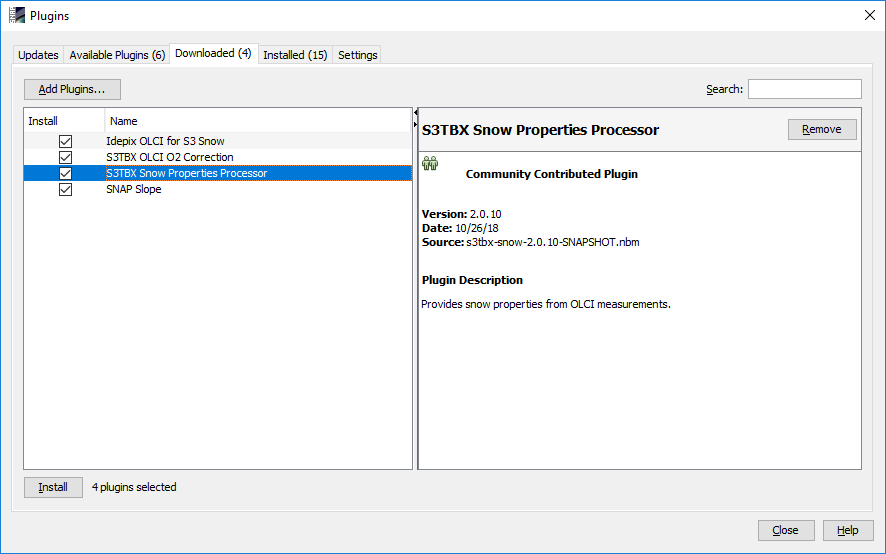
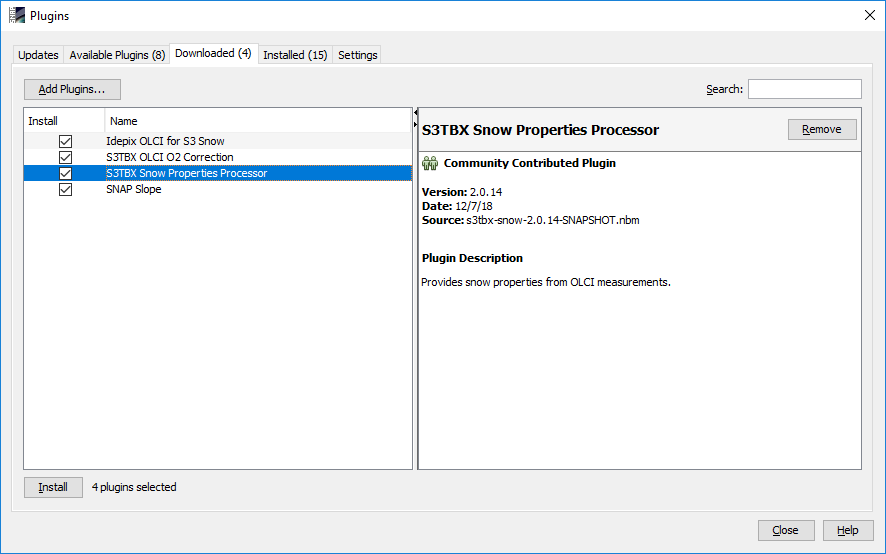
SUM: minor adaptations to latest processors, set version to 1.3

Changed region(s): [[0.4571, 0.2762, 0.7619, 0.583]]

diff --git a/src/main/javahelp/org/esa/s3tbx/s3tbx/snow/docs/s3snow/S3SnowProcessorDescription.html b/src/main/javahelp/org/esa/s3tbx/s3tbx/snow/docs/s3snow/S3SnowProcessorDescription.html
@@ -204,8 +204,8 @@
 </p>
 
 <p class="i1">
-    <b>OLCI SVC gain for band 5 (510nm): </b><br>
-    OLCI system vicarious calibration (SVC) gain for band 5 (510nm). See [3] for details and explanations.
+    <b>OLCI SVC gain for band 6 (560nm): </b><br>
+    OLCI system vicarious calibration (SVC) gain for band 6 (560nm). See [3] for details and explanations.
     Default value is 0.9892, as proposed in [3], Table 2.
 </p>
 

diff --git a/src/main/resources/doc/conf.py b/src/main/resources/doc/conf.py
@@ -65,9 +65,9 @@ s3snow_logo = "pix/s3snow_logo.png"
 # built documents.
 #
 # The short X.Y version.
-version = '1.2'
+version = '1.3'
 # The full version, including alpha/beta/rc tags.
-release = '1.2'
+release = '1.3'
 
 # The language for content autogenerated by Sphinx. Refer to documentation
 # for a list of supported languages.

diff --git a/src/main/resources/doc/s3snow_usage.rst b/src/main/resources/doc/s3snow_usage.rst
@@ -48,6 +48,19 @@ visible in their dedicated menus as shown in the figure sequence :numref:`snow_p
 
    The SNAP menu entry for the Slope Processor.
 
+Test Products
+=============
+
+The S3-SNOW project delivery D2.4 'Task 2 Data Base' contains a variety of suitable Sentinel-3 OLCI L1b products which
+can be used for initial tests of the functionalities of the single processors as well as for the whole processing flow.
+These products can also be obtained from the S3-SNOW ftp site hosted at BC with the
+following configuration:
+
+- FTP, Port 21
+- ftp.brockmann-consult.de
+- username: s3snow
+- password: $3Sn0W@bc
+- subdirectories: data/<region> (Dome-C, French Alps, Greenland, Morteratsch)
 
 The Snow Properties Processor
 =============================
@@ -248,7 +261,7 @@ When the Slope Processor is called from its menu entry, the processor GUI is dis
 processor contains two tabs 'I/O Parameters' and 'Processing Parameters' (:numref:`slope_tabs`).
 
 .. _slope_tabs:
-.. figure::  pix/o2corr_tabs.png
+.. figure::  pix/slope_tabs.png
    :align:   center
    :scale: 60 %
 

diff --git a/src/main/resources/doc/s3snow_processing_system.rst b/src/main/resources/doc/s3snow_processing_system.rst
@@ -155,7 +155,8 @@ The SNAP Slope Processor
 ------------------------
 
 The Slope Processor provides pixelwise terrain slope and aspect angle from an arbitrary input product containing
-a band with terrain height (i.e. a DEM product). For S3-SNOW this processor is provided as utility tool, as slope
+a band with terrain height (i.e. a DEM product). In addition, the variance of elevation over a 3x3 pixel window is
+provided. For S3-SNOW this processor is provided as utility tool, as slope
 and aspect are often useful information for the validation of snow properties.
 
 

diff --git a/src/main/resources/doc/intro.rst b/src/main/resources/doc/intro.rst
@@ -43,7 +43,7 @@ References
     Issue 1, Revision 1, 16 March 2016.
 
 2.  Kokhanovsky, A., Box, J.E., Lamare, M., Dumont, M., Picard, G., Danne, O., and C. Brockmann:
-    Algorithm Theoretical Basis Document: Snow Properties Retrieval from Sentinel-3. Version 1.0, 1 November 2018.
+    Algorithm Theoretical Basis Document: Snow Properties Retrieval from Sentinel-3. Version 2.2, 8 November 2018.
 
 3.  Sentinel-3 OLCI User Guide,
     available at: https://sentinel.esa.int/web/sentinel/user-guides/sentinel-3-olci

diff --git a/src/main/resources/doc/s3snow_installation.rst b/src/main/resources/doc/s3snow_installation.rst
@@ -69,7 +69,7 @@ See listing of files in :numref:`sw_bundle`.
 
 
 The processor versions were frequently incremented during the iterative development process.
-E.g., the current version of the Snow Properties Processor is v2.0.11.
+E.g., the current version of the Snow Properties Processor is v2.0.14.
 
 .. index:: How to get the Software
 
